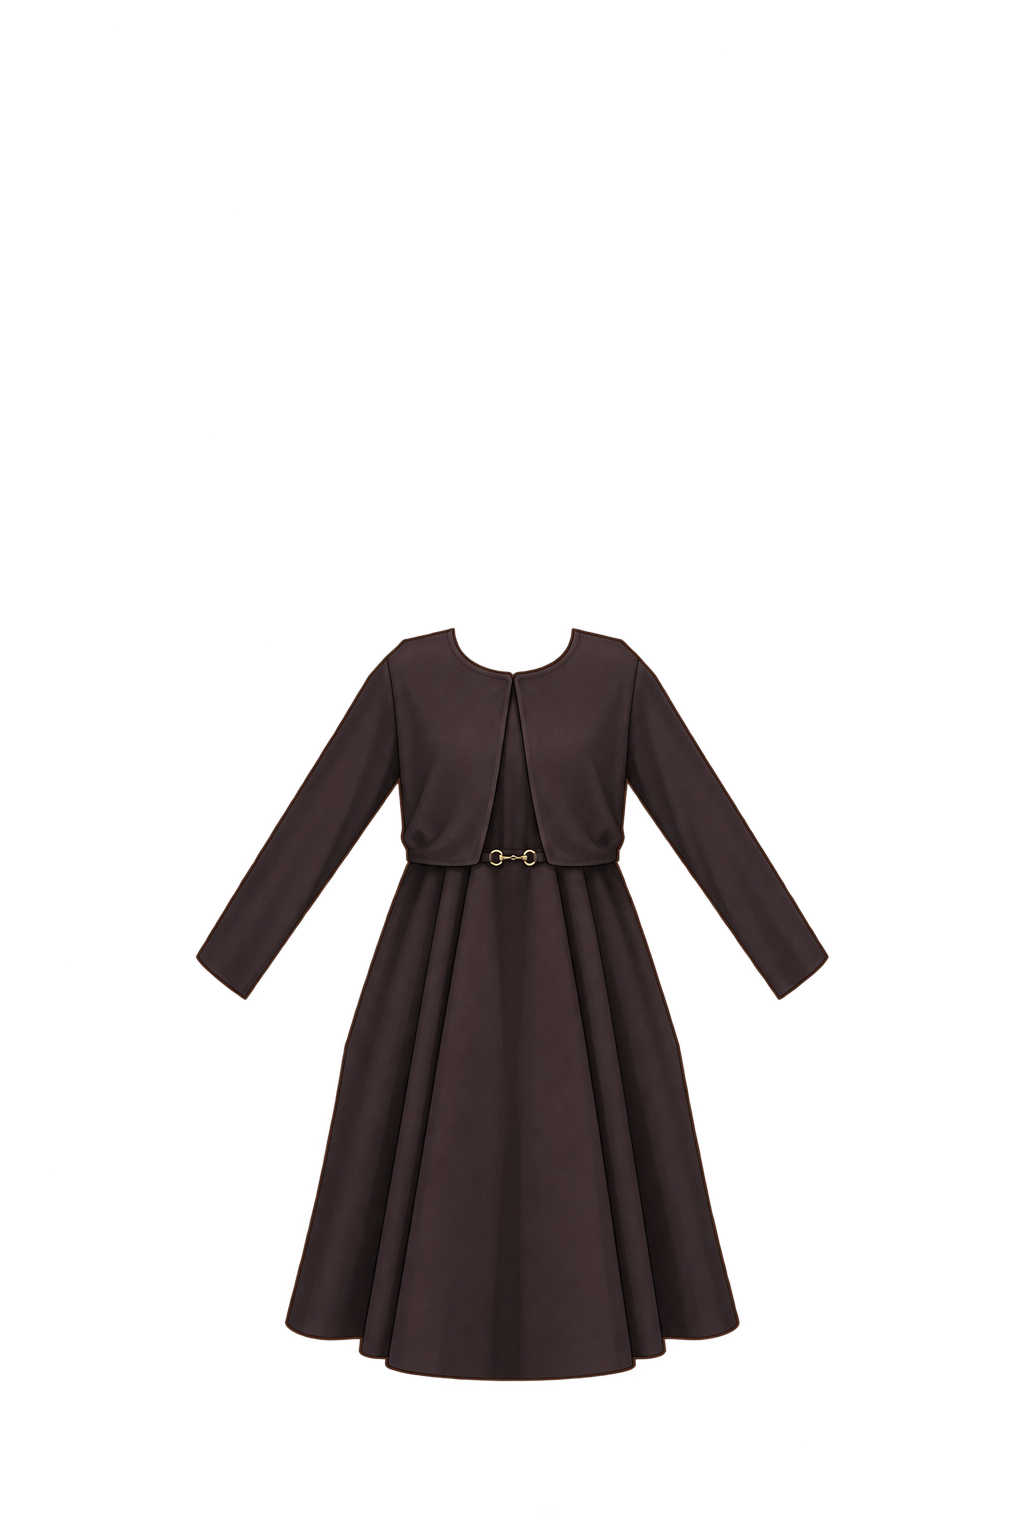
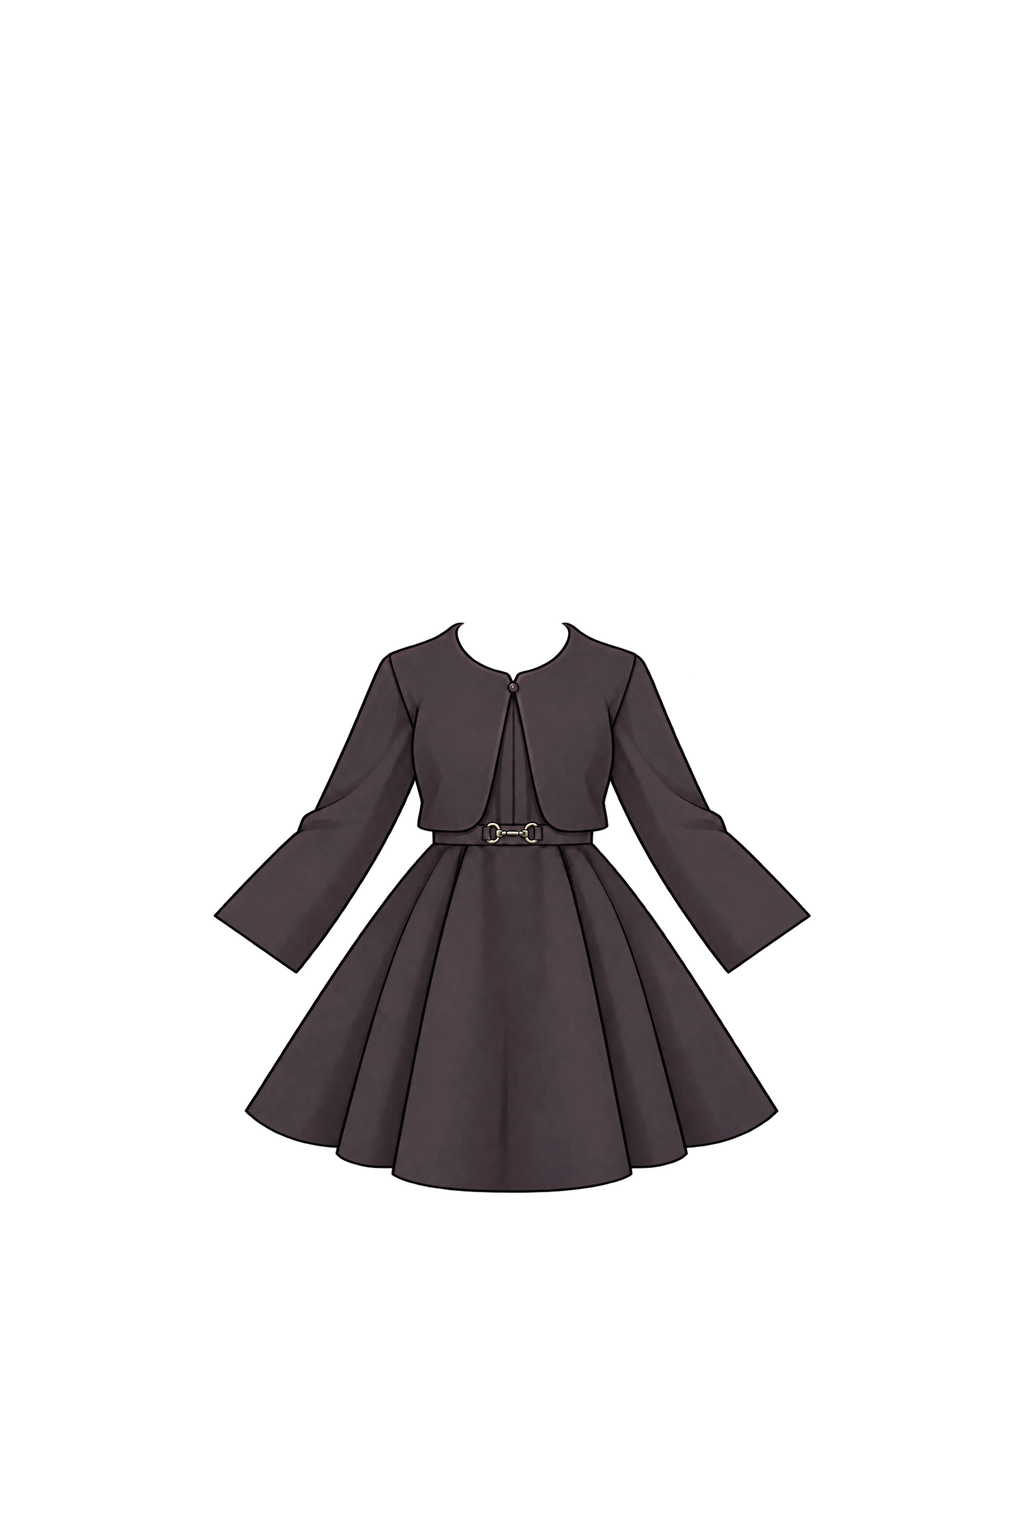
Replace all dresses with the new 7; add delete/restore for built-in clothes and room items
- tools-py/place_dresses.py places the cropped dress PNGs on the avatar canvas (same ids, so saved outfits keep working)
- x badge on every closet/room tile: custom items are really deleted, built-in ones are hidden with a restore button (localStorage)
- random outfit skips hidden clothes

Claude-Session: https://claude.ai/code/session_01QsJz8svXLJhiXtuEPA1E7w

Changed region(s): [[0.1875, 0.4062, 0.8125, 0.9062]]

diff --git a/src/App.tsx b/src/App.tsx
@@ -5,6 +5,7 @@ import { BackgroundPicker } from './components/BackgroundPicker'
 import { AddItemModal } from './components/AddItemModal'
 import { Closet } from './components/Closet'
 import { removeCustomItem, removeCustomRoomItem } from './lib/customItems'
+import { hideItem, restoreItems, visible } from './lib/hidden'
 import { useItemsVersion } from './lib/useItemsVersion'
 import { ExportSheet, type RenderOptions } from './components/ExportSheet'
 import { RoomTray } from './components/RoomTray'
@@ -17,10 +18,10 @@ import { ASSEMBLE_PARTS, randomAssembly, takeOffPart, togglePart, type Assembly,
 import { BACKGROUNDS, DEFAULT_BG_ID, bgById } from './lib/backgrounds'
 import { finishFigure, loadImage, renderAssembly, renderOutfitCanvas, renderThumb } from './lib/exportPng'
 import { ROOM_ASSETS, renderRoomCanvas } from './lib/exportRoom'
-import { BASE_LAYERS, ITEMS, ITEMS_BY_CATEGORY, assetUrl } from './lib/items'
+import { BASE_LAYERS, ITEMS, ITEMS_BY_CATEGORY, assetUrl, isCustomItem } from './lib/items'
 import { CATEGORIES, type Category } from './lib/layers'
 import { randomOutfit, toggleItem } from './lib/outfit'
-import { ROOM_ITEMS, addItem, defaultRoom } from './lib/room'
+import { ROOM_ITEMS, addItem, defaultRoom, isCustomRoomItem } from './lib/room'
 import { MAX_PLACED, type RoomGroup, type RoomItemDef, type RoomState, type Selection } from './lib/roomTypes'
 import { playSnap } from './lib/sound'
 import {
@@ -156,7 +157,8 @@ export default function App() {
       delete next[item.category]
       applyOutfit(next)
     }
-    void removeCustomItem(item.id)
+    if (isCustomItem(item)) void removeCustomItem(item.id)
+    else hideItem(item.id)
     showToast(t('removed'))
   }
 
@@ -164,7 +166,8 @@ export default function App() {
   const removeMyProp = (def: RoomItemDef) => {
     setRoom((r) => ({ ...r, items: r.items.filter((p) => p.itemId !== def.id) }))
     setSelection(null)
-    void removeCustomRoomItem(def.id)
+    if (isCustomRoomItem(def)) void removeCustomRoomItem(def.id)
+    else hideItem(def.id)
     showToast(t('removed'))
   }
 
@@ -181,7 +184,7 @@ export default function App() {
   }
 
   const onRandom = () => {
-    setOutfit(randomOutfit(ITEMS_BY_CATEGORY))
+    setOutfit(randomOutfit(Object.fromEntries(CATEGORIES.map((c) => [c, visible(ITEMS_BY_CATEGORY[c])])) as typeof ITEMS_BY_CATEGORY))
     setTweaks({})
     setSelCat(null)
     snap()
@@ -413,9 +416,10 @@ export default function App() {
               onDragOver={setDragOver}
               onAdd={() => setModal('addItem')}
               onRemove={removeMine}
+              onRestore={(list) => { restoreItems(list.map((i) => i.id)); showToast(t('restored')) }}
             />
           ) : (
-            <RoomTray room={room} onAdd={addToRoom} onAddCustom={(tab) => { setPropGroup(tab); setModal('addProp') }} onRemoveCustom={removeMyProp} />
+            <RoomTray room={room} onAdd={addToRoom} onAddCustom={(tab) => { setPropGroup(tab); setModal('addProp') }} onRemoveCustom={removeMyProp} onRestore={(list) => { restoreItems(list.map((d) => d.id)); showToast(t('restored')) }} />
           )}
         </aside>
       </div>

diff --git a/src/components/Closet.tsx b/src/components/Closet.tsx
@@ -2,6 +2,7 @@ import type { RefObject } from 'react'
 import { CATEGORIES, type Category } from '../lib/layers'
 import { CATEGORY_LABEL, useI18n } from '../i18n'
 import { ITEMS_BY_CATEGORY, assetUrl, isCustomItem } from '../lib/items'
+import { hiddenCount, visible } from '../lib/hidden'
 import { useItemsVersion } from '../lib/useItemsVersion'
 import type { Item, Outfit } from '../lib/types'
 import { DragGhost, useThumbDrag } from './useThumbDrag'
@@ -29,15 +30,19 @@ interface Props {
   onDragOver: (over: boolean) => void
   /** '내 옷 추가' 버튼 */
   onAdd: () => void
-  /** 내가 추가한 옷 삭제 */
+  /** 옷 삭제 (내가 추가한 옷은 진짜 삭제, 기본 옷은 목록에서 숨김) */
   onRemove: (item: Item) => void
+  /** 이 카테고리에서 숨긴 옷 되돌리기 */
+  onRestore: (items: Item[]) => void
 }
 
-export function Closet({ category, onCategory, outfit, onToggle, onDragWear, dropRef, onDragOver, onAdd, onRemove }: Props) {
+export function Closet({ category, onCategory, outfit, onToggle, onDragWear, dropRef, onDragOver, onAdd, onRemove, onRestore }: Props) {
   useItemsVersion()
   const { lang, t } = useI18n()
   const labels = CATEGORY_LABEL[lang]
-  const items = ITEMS_BY_CATEGORY[category]
+  const all = ITEMS_BY_CATEGORY[category]
+  const items = visible(all)
+  const nHidden = hiddenCount(all.map((i) => i.id))
   const { press, ghost, ignoreClick } = useThumbDrag(dropRef, onDragOver)
   return (
     <div className="flex min-h-0 flex-1 flex-col">
@@ -124,11 +129,11 @@ export function Closet({ category, onCategory, outfit, onToggle, onDragWear, dro
                     </span>
                   )}
                 </button>
-                {isCustomItem(it) && (
+                {(
                   <button
                     aria-label={`${t('removeItem')}: ${name}`}
                     title={t('removeItem')}
-                    onClick={() => window.confirm(t('removeItemConfirm')) && onRemove(it)}
+                    onClick={() => window.confirm(t(isCustomItem(it) ? 'removeItemConfirm' : 'hideItemConfirm')) && onRemove(it)}
                     className="absolute -top-1 -left-1 flex h-7 w-7 items-center justify-center rounded-full bg-white text-xs text-cocoa-soft shadow ring-1 ring-black/10"
                   >
                     ✕
@@ -138,6 +143,14 @@ export function Closet({ category, onCategory, outfit, onToggle, onDragWear, dro
             )
           })}
         </ul>
+        {nHidden > 0 && (
+          <button
+            onClick={() => onRestore(all)}
+            className="mt-3 min-h-11 w-full rounded-full bg-petal/70 px-4 text-sm font-semibold text-cocoa-soft"
+          >
+            ↩ {t('restoreHidden', { n: nHidden })}
+          </button>
+        )}
       </div>
       <DragGhost ghost={ghost} src={assetUrl} />
     </div>

diff --git a/src/components/RoomTray.tsx b/src/components/RoomTray.tsx
@@ -2,6 +2,7 @@ import { useState } from 'react'
 import { useI18n } from '../i18n'
 import { ROOM_ITEMS, isCustomRoomItem } from '../lib/room'
 import { assetUrl } from '../lib/items'
+import { hiddenCount, visible } from '../lib/hidden'
 import { useItemsVersion } from '../lib/useItemsVersion'
 import type { RoomItemDef, RoomState, RoomTab } from '../lib/roomTypes'
 
@@ -19,13 +20,17 @@ interface Props {
   /** '내 소품 추가' 버튼 (지금 보고 있는 탭을 알려준다) */
   onAddCustom: (tab: RoomTab) => void
   onRemoveCustom: (def: RoomItemDef) => void
+  /** 이 탭에서 숨긴 물건 되돌리기 */
+  onRestore: (defs: RoomItemDef[]) => void
 }
 
-export function RoomTray({ room, onAdd, onAddCustom, onRemoveCustom }: Props) {
+export function RoomTray({ room, onAdd, onAddCustom, onRemoveCustom, onRestore }: Props) {
   useItemsVersion()
   const { lang, t } = useI18n()
   const [tab, setTab] = useState<RoomTab>('furniture')
-  const items = ROOM_ITEMS.filter((d) => inTab(d, tab))
+  const inThisTab = ROOM_ITEMS.filter((d) => inTab(d, tab))
+  const items = visible(inThisTab)
+  const nHidden = hiddenCount(inThisTab.map((d) => d.id))
   const count = (id: string) => room.items.filter((p) => p.itemId === id).length
   return (
     <div className="flex min-h-0 flex-1 flex-col">
@@ -78,11 +83,11 @@ export function RoomTray({ room, onAdd, onAddCustom, onRemoveCustom }: Props) {
                     </span>
                   )}
                 </button>
-                {isCustomRoomItem(d) && (
+                {(
                   <button
                     aria-label={`${t('removeItem')}: ${d.name[lang]}`}
                     title={t('removeItem')}
-                    onClick={() => window.confirm(t('removeItemConfirm')) && onRemoveCustom(d)}
+                    onClick={() => window.confirm(t(isCustomRoomItem(d) ? 'removeItemConfirm' : 'hideItemConfirm')) && onRemoveCustom(d)}
                     className="absolute -top-1 -left-1 flex h-7 w-7 items-center justify-center rounded-full bg-white text-xs text-cocoa-soft shadow ring-1 ring-black/10"
                   >
                     ✕
@@ -93,6 +98,14 @@ export function RoomTray({ room, onAdd, onAddCustom, onRemoveCustom }: Props) {
             )
           })}
         </ul>
+        {nHidden > 0 && (
+          <button
+            onClick={() => onRestore(inThisTab)}
+            className="mt-3 min-h-11 w-full rounded-full bg-petal/70 px-4 text-sm font-semibold text-cocoa-soft"
+          >
+            ↩ {t('restoreHidden', { n: nHidden })}
+          </button>
+        )}
       </div>
     </div>
   )

diff --git a/src/lib/hidden.ts b/src/lib/hidden.ts
@@ -1,0 +1,45 @@
+import { notifyItemsChanged } from './items'
+
+/**
+ * 기본 옷·방 물건을 "삭제"하면 실제 파일을 지우는 대신 목록에서 숨긴다 (이미 저장해 둔 코디·방은 그대로 보인다).
+ * 숨긴 것은 '되돌리기' 로 다시 꺼낼 수 있다. 내가 추가한 것은 숨기지 않고 진짜로 지운다 (customItems.ts).
+ */
+const KEY = 'ryuso.hidden.v1'
+
+function read(): Set<string> {
+  try {
+    const raw: unknown = JSON.parse(localStorage.getItem(KEY) ?? '[]')
+    return new Set(Array.isArray(raw) ? raw.filter((x): x is string => typeof x === 'string') : [])
+  } catch {
+    return new Set()
+  }
+}
+
+let hidden = read()
+const save = () => {
+  try {
+    localStorage.setItem(KEY, JSON.stringify([...hidden]))
+  } catch {
+    /* 저장 공간이 없으면 이번 접속에서만 숨겨진다 */
+  }
+}
+
+export const isHidden = (id: string) => hidden.has(id)
+export const hiddenCount = (ids: Iterable<string>) => [...ids].filter((id) => hidden.has(id)).length
+
+export function hideItem(id: string) {
+  hidden = new Set(hidden).add(id)
+  save()
+  notifyItemsChanged()
+}
+
+/** 주어진 id 들만 다시 보이게 한다 */
+export function restoreItems(ids: Iterable<string>) {
+  const next = new Set(hidden)
+  for (const id of ids) next.delete(id)
+  hidden = next
+  save()
+  notifyItemsChanged()
+}
+
+export const visible = <T extends { id: string }>(list: T[]): T[] => list.filter((i) => !hidden.has(i.id))

diff --git a/src/i18n/index.tsx b/src/i18n/index.tsx
@@ -56,6 +56,9 @@ const ko = {
   removeItem: '내 옷 삭제',
   removeItemConfirm: '이 옷을 삭제할까요?',
   removed: '삭제했어요',
+  hideItemConfirm: '이 옷을 목록에서 삭제할까요? (아래 되돌리기 버튼으로 다시 꺼낼 수 있어요)',
+  restoreHidden: '삭제한 {n}개 되돌리기',
+  restored: '되돌렸어요',
   roomAvatar: '나',
   roomAria: '방 꾸미기 화면. 방향키로 이동, +/-로 크기, F로 좌우 반전, Delete로 치우기',
   roomHint: '가구를 눌러 방에 놓고, 끌어서 옮겨요',
@@ -143,6 +146,9 @@ const en: Dict = {
   removeItem: 'Delete my item',
   removeItemConfirm: 'Delete this item?',
   removed: 'Deleted',
+  hideItemConfirm: 'Delete this from the list? (You can bring it back with the restore button below)',
+  restoreHidden: 'Restore {n} deleted',
+  restored: 'Restored',
   roomAvatar: 'Me',
   roomAria: 'Room decorating. Arrow keys move, +/- resize, F flips, Delete removes',
   roomHint: 'Tap an item to place it, drag to move',

diff --git a/tools-py/place_dresses.py b/tools-py/place_dresses.py
@@ -1,0 +1,41 @@
+"""잘라서 받은 원피스 PNG(크기가 제각각, 옷만 있음)를 아바타 캔버스(1024×1536)에 놓아 assets-src/clothes/ 에 저장한다.
+
+모든 원피스를 같은 배율(SCALE)로 줄이고, 옷 영역의 가로 가운데를 아바타 가운데(x=512)에, 맨 위(옷깃)를 TOP_Y 에 맞춘다.
+(원피스끼리 크기 비율이 원본 그림 그대로 유지된다. 앱에서 손가락으로 더 맞출 수 있다.)
+
+사용: python tools-py/place_dresses.py <원피스 PNG 폴더>      (저장소 루트에서)
+의존성: pip install numpy pillow
+"""
+import os
+import sys
+
+from PIL import Image
+
+W, H = 1024, 1536
+SCALE = 0.6
+TOP_Y = 622
+CX = 512
+OUT = 'assets-src/clothes'
+
+# 받은 파일 → 옷 id (같은 id 를 쓰면 저장해 둔 코디가 그대로 유지된다)
+NAMES = {
+    '원피스_쉬즈미스_회색': 'dress_shesmiss_gray',
+    '원피스_아이작_갈색': 'dress_isaac_brown',
+    '원피스_아이작_검정반소매': 'dress_isaac_black',
+    '원피스_아이작_네이비': 'dress_isaac_navy',
+    '원피스_아이작_셔츠배색': 'dress_isaac_shirt_black',
+    '원피스_옥스포드_베이지': 'dress_oxford_beige',
+    '원피스_트위드_검정': 'dress_deco_tweed_black',
+}
+
+src = sys.argv[1]
+for stem, oid in NAMES.items():
+    im = Image.open(os.path.join(src, stem + '.png')).convert('RGBA')
+    bb = im.getchannel('A').point(lambda a: 255 if a > 8 else 0).getbbox()
+    im = im.crop(bb)
+    w, h = round(im.width * SCALE), round(im.height * SCALE)
+    im = im.resize((w, h), Image.LANCZOS)
+    canvas = Image.new('RGBA', (W, H), (0, 0, 0, 0))
+    canvas.alpha_composite(im, (round(CX - w / 2), TOP_Y))
+    canvas.save(os.path.join(OUT, oid + '.png'))
+    print(oid, (w, h))

diff --git a/README.md b/README.md
@@ -62,6 +62,7 @@ npm test           # 착용 규칙 단위 테스트
 - 투명한 부분을 눌러도 뒤에 있는 물건이 선택되도록 알파 마스크로 터치 판정
 - 방 상태는 localStorage 에 자동 저장(최대 40개), `🧹` 로 처음 모습으로 초기화, `📷` 로 방 사진 PNG 저장/공유
 - **내 옷 추가**: 코디 탭의 `+ 내 옷 추가` 버튼으로 사진(PNG·JPG 등)을 올리면 상의·하의·원피스·아우터·신발·액세서리·가방 중 고른 종류의 기본 자리에 놓이고 바로 입혀집니다. 흰색·단색 배경은 자동으로 지우고(끌 수 있음), 위치·크기는 다른 옷처럼 손가락으로 맞춥니다. 기기(IndexedDB)에만 저장되고 최대 60개이며, 내 옷 왼쪽 위 ✕ 로 삭제합니다. 코드: `src/lib/customItems.ts`, `src/components/AddItemModal.tsx`
+- **삭제**: 옷·방 물건 왼쪽 위 ✕ 로 삭제합니다. 내가 추가한 것은 진짜로 지우고, 기본 옷·물건은 목록에서 숨기며 목록 맨 아래 `↩ 삭제한 N개 되돌리기` 로 다시 꺼냅니다(숨김은 기기에만 저장). 원피스 PNG 처럼 잘라서 받은 옷은 `python tools-py/place_dresses.py <폴더>` 로 캔버스에 놓습니다.
 - **내 소품 추가(내 방)**: 내 방 탭의 `+ 내 소품 추가` 로 사진을 올려 가구·러그·벽 장식·조명으로 추가하면 방에 바로 놓입니다. 배경 지우기·저장(IndexedDB, 최대 60개)·삭제(✕, 방에 놓인 것도 함께 치움)는 내 옷과 같습니다.
 
 
